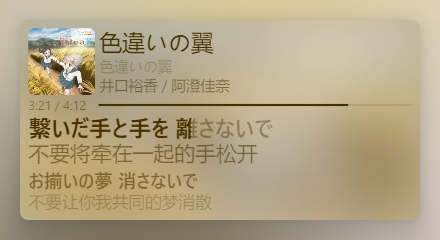
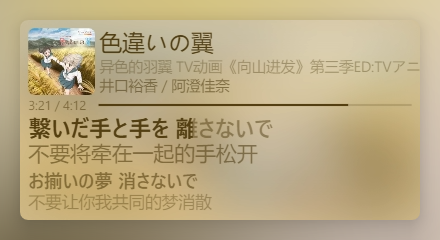
v0.6.2 更新
修复翻译歌词错误出现"暂无歌词"占位的问题，重写封面取色算法，解决 AMLL 背景在0.6.0更新后出现的动态刷新问题，略微降低文字透明度，提高布局计算精度、减少模糊，自动分辨率的判定阈值从相对的1%为绝对的2px、更精确。微调设置，歌曲信息显示的默认值改为自动，新增封面圆角大小设置。

diff --git a/main.js b/main.js
@@ -7,16 +7,17 @@ let rvN, reRatioTimer, winAspect, v, amllbgv/*Apple Music-like Lyrics Background
 , isVLsnAdded=false, isLrcRnpLsnAdded=false
 , t = "0:00 / 0:00", tC = 0, tT = 0, tP = 0, tR = 0 //显示用，Current，Total，PassedRate，Remaining
 , readCfg = JSON.parse(localStorage.getItem("PiPWindowSettings"))
-, color = ({accent: "", text: "", textT13: "", textT31: "", textT42: "", textT56: "", bg: "", bgT00: "", bgT50: ""}), colorS = ({accent: "", text: "", bg: "", bgT: ""}), colorCache = ({text: "", bg: ""})
+, color = ({accent: "", text: "", textT20: "", textT40: "", textT50: "", textT60: "", bg: "", bgT00: "", bgT50: ""}), colorS = ({accent: "", text: "", bg: "", bgT: ""}), colorCache = ({text: "", bg: ""})
 , song = ({name:"", nameAnother:"", artist:""})
 const pdd = "M21 3C21.5523 3 22 3.44772 22 4V11H20V5H4V19H10V21H3C2.44772 21 2 20.5523 2 20V4C2 3.44772 2.44772 3 3 3H21ZM21 13C21.5523 13 22 13.4477 22 14V20C22 20.5523 21.5523 21 21 21H13C12.4477 21 12 20.5523 12 20V14C12 13.4477 12.4477 13 13 13H21Z"
 , pO = `<path d="${pdd}M20 15H14V19H20V15ZM6.70711 6.29289L8.95689 8.54289L11 6.5V12H5.5L7.54289 9.95689L5.29289 7.70711L6.70711 6.29289Z"></path>`
 , pC = `<path d="${pdd}"></path>`
 , cfgDefault = ({
     whenClose: "none", whenBack: "back", whenCloseOrBack_paused: "close", autoHideMainWindow: false, showTaskbarButton: false
-    , useCloudDataForLocalFile: false, showDiscWhenNoCover: false, allowNonsquareCover: false, /*showIconBarBeforeInfo: true,*/ trackInfoShow: "album", timeInfo: "CurrentTotal"
+    , useCloudDataForLocalFile: false, showDiscWhenNoCover: false, allowNonsquareCover: false, /*showIconBarBeforeInfo: true,*/ trackInfoShow: "auto", timeInfo: "CurrentTotal"
     , lyricLine2Show: "auto", dynamicLyrics: true, autoScroll: true, lyricsTaperOff: true, lyricsMask: false, lyricsTransition: true, lyricsHanzi2Kanji: true, lyricsOffset: 0, lyricsFrom: "LibLyric", lyricsCustomSources: "https://example.com/lyric?track=${track}&id=${trackId}&art=${artist}&arts=${artists}&album=${album}&albumId=${albumId}", showLyricsErrorTip: true
-    , colorFrom: "albumCover", colorCustom_accent: "#FFFFFF", colorCustom_text: "#FFFFFF", colorCustom_bg: "#424242", backgroundFrom: "albumCoverBlur", generalFontWeight: 400, originalLyricsFontWeight: 700, translatedLyricsFontWeight: 400, customFonts: "\"Segoe UI\", \"Microsoft Yahei UI\", system-ui", useJapaneseFonts: true, customJapaneseFonts: "\"Yu Gothic UI\", \"Meiryo UI\", \"Microsoft Yahei UI\", system-ui"
+    , colorFrom: "albumCover", colorCustom_accent: "#FFFFFF", colorCustom_text: "#FFFFFF", colorCustom_bg: "#424242", backgroundFrom: "albumCoverBlur", generalFontWeight: 400, originalLyricsFontWeight: 700, translatedLyricsFontWeight: 400
+    , customFonts: "\"Segoe UI\", \"Microsoft Yahei UI\", system-ui", useJapaneseFonts: true, customJapaneseFonts: "\"Yu Gothic UI\", \"Meiryo UI\", \"Microsoft Yahei UI\", system-ui", coverCornerRadius: 6 /*封面圆角默认为6px，比Win11窗口圆角(8px)略小，以获得视觉平衡*/
     , smoothProgessBar: false, resolutionRatio: "auto", aspectRatio: "2:1", albumCoverSize: 160, useFullCover: false
     , customLoadingTxt: "正在载入猫猫…|猫猫正在赶来的路上…|马上就好了喵…"})
 , DcvUrl/*Default*/ = "orpheus://orpheus/style/res/common/discovery/calendar_bg.png"
@@ -69,7 +70,7 @@ function reRatio(rv) {
         if (!document.pictureInPictureElement) {return} /*窗口已经关闭*/
         let changed = false;
         /*自适应分辨率*/
-        if (autoRatio && Math.abs(rvN - autoRatioValue) / autoRatioValue >= 0.01) {autoRatioValue = rvN; changed = true} /*变化很小就不动，避免来回抖动*/
+        if (autoRatio && Math.abs(rvN - autoRatioValue) >= 2) {autoRatioValue = rvN; changed = true} /*变化很小(2px以下)就不动，避免来回抖动*/
         /*跟随窗口实际宽高比：窗口被放大/吸附后形状可能和画布不一致，上下或左右会出现黑边(黑边在视频之外，只能让画布跟着窗口的形状变)*/
         let pw = thePiPWindow, a = (pw && pw.width > 0 && pw.height > 0) ? pw.width / pw.height : 0;
         if (a > 0) {
@@ -176,47 +177,77 @@ function colorPick(from=null) { //取色
     if (readCfg.colorFrom=="custom") { //这里的数据是HEX格式
         color.accent = readCfg.colorCustom_accent;
         textTO = readCfg.colorCustom_text;
-        color.text = textTO, color.textT56 = `${textTO}8F`, color.textT42 = `${textTO}6B`, color.textT31 = `${textTO}4F`, color.textT13 = `${textTO}21`;
+        color.text = textTO, color.textT60 = `${textTO}99`, color.textT50 = `${textTO}80`, color.textT40 = `${textTO}66`, color.textT20 = `${textTO}33`;
         bgTO = readCfg.colorCustom_bg;
         color.bg = bgTO, color.bgT00 = `${bgTO}00`, color.bgT50 = `${bgTO}7F`;
     } else {
         if (from==null) {
             color.accent = colorS.accent;
         } else if (from instanceof HTMLElement) {
-            function brightness(rgb, factor) {
-                let rN = Math.min(255, Math.max(0, rgb[0] * factor))
-                , gN = Math.min(255, Math.max(0, rgb[1] * factor))
-                , bN = Math.min(255, Math.max(0, rgb[2] * factor));
-                return [Math.round(rN), Math.round(gN), Math.round(bN), 255];
-            }
-            function saturation(rgb, factor) {
-                let l = (.299*rgb[0]+.587*rgb[1]+.114*rgb[2])
-                , rN = Math.min(255, Math.max(0, l + (rgb[0] - l) * factor))
-                , gN = Math.min(255, Math.max(0, l + (rgb[1] - l) * factor))
-                , bN = Math.min(255, Math.max(0, l + (rgb[2] - l) * factor));
-                return [Math.round(rN), Math.round(gN), Math.round(bN), 255];
-            }
+            // --- 内联 HSL 与对比度辅助函数 ---
+            function rgbToHsl(r,g,b) {
+                r/=255; g/=255; b/=255; const mx=Math.max(r,g,b), mn=Math.min(r,g,b); let h,s,l=(mx+mn)/2;
+                if (mx===mn) { h=s=0 } else { const d=mx-mn; s=l>.5?d/(2-mx-mn):d/(mx+mn);
+                switch (mx) { case r: h=(g-b)/d+(g<b?6:0); break; case g: h=(b-r)/d+2; break; case b: h=(r-g)/d+4; break; } h/=6 }
+                return [h*360, s*100, l*100];
+            };
+            function hslToRgb(h,s,l) {
+                h/=360; s/=100; l/=100; let r,g,b;
+                if (s===0) { r=g=b=l } else {
+                    function hue2rgb(p,q,t){
+                        if(t<0)t+=1; if(t>1)t-=1;
+                        if(t<1/6)return p+(q-p)*6*t; if(t<1/2)return q; if(t<2/3)return p+(q-p)*(2/3-t)*6; return p;
+                    };
+                    const q = l<.5?l*(1+s):l+s-l*s, p=2*l-q;
+                    r=hue2rgb(p,q,h+1/3); g=hue2rgb(p,q,h); b=hue2rgb(p,q,h-1/3);
+                }
+                return [Math.round(r*255), Math.round(g*255), Math.round(b*255)];
+            };
+            function getLuminance(r,g,b) {
+                const a=[r,g,b].map(v=>{
+                    v/=255; return v<=.03928?v/12.92:Math.pow((v+.055)/1.055,2.4);
+                });
+                return a[0]*.2126 + a[1]*.7152 + a[2]*.0722;
+            };
             if (!cpc||!cpcC) {cpc = cE("canvas"); cpc.width = 3; cpc.height = 3; cpcC = cpc.getContext("2d",{alpha:false})}
             from.height?cpcC.drawImage(from, 0, 0, cpc.width, cpc.height):""
-            let rgb = cpcC.getImageData(1, 1, 2, 2).data
-            , l = (.299*rgb[0]+.587*rgb[1]+.114*rgb[2])
-            , bf = 1, sf = 1.2
-            l<8?bf=50 : l<16?bf=16 : l<32?bf=12 : l<64?bf=8 : l<128?bf=2 : l>144?bf=(-.4) : ""
-            l>144?sf=6 : ""
-            let rgbN = brightness(rgb, l>160?1.1:l>144?1.4:.5)
-            bgTO = `rgba(${rgbN[0]}, ${rgbN[1]}, ${rgbN[2]}`
-            if (readCfg.backgroundFrom == "AMLL"&&loadedPlugins["Apple-Musiclike-lyrics"]) { //AMLL背景下的颜色...优化?
-                rgbN = brightness(saturation(rgb, sf+.3), 4+bf)
-                if ((.299*rgbN[0]+.587*rgbN[1]+.114*rgbN[2])>245) {rgbN = brightness(saturation(rgb, 4), 2+bf)}
-            } else {
-                rgbN = brightness(saturation(rgb, sf), .7+bf)
-                if ((.299*rgbN[0]+.587*rgbN[1]+.114*rgbN[2])>245) {rgbN = brightness(saturation(rgb, 4), .7+bf)}
+            let rgb = cpcC.getImageData(1, 1, 2, 2).data;
+            // 1. 获取并处理 HSL 信息
+            let [h, s, l] = rgbToHsl(rgb[0], rgb[1], rgb[2]);
+            s = (s**(.5))*10; // 非线性提升饱和度，即用根号s乘以10
+            // 2. 处理背景
+            let isDark = l < 56; // 暗色转变阈值：56%
+            let bgS = Math.min(s, 40); // 最高40%饱和度
+            let bgL = isDark ? 20 : 70; // 如果原图暗，背景变暗，否则变亮
+            let bgRgb = hslToRgb(h, bgS, bgL);
+            bgTO = `rgba(${bgRgb[0]}, ${bgRgb[1]}, ${bgRgb[2]}`;
+            // 3. 处理强调色/文字色
+            let textS = Math.min(Math.max(s, 60), 90); // 最低60%保证色彩，最高限制在90%防荧光色
+            let textL = isDark ? 80 : 20; // 基础亮度设定在 80%（暗色）和 20%（亮色）
+            // AMLL 特殊处理（如果启用了 AMLL，强制变亮）
+            if (readCfg.backgroundFrom == "AMLL" && loadedPlugins["Apple-Musiclike-lyrics"]) {
+                textL = 80;
             }
-            if (rgbN[0]>235&&rgbN[1]<235&&rgbN[2]<235) {rgbN = [235, rgbN[1]<50?50:rgbN[1], rgbN[2]<30?30:rgbN[2]]} //太红看不清
-            color.accent = `rgb(${rgbN[0]}, ${rgbN[1]}, ${rgbN[2]})`
-            textTO = `rgba(${rgbN[0]}, ${rgbN[1]}, ${rgbN[2]}`
+            let textRgb = hslToRgb(h, textS, textL);
+            // 4. 对比度判定（WCAG AA 标准，对比度不低于 4.5）
+            let bgLum = getLuminance(bgRgb[0], bgRgb[1], bgRgb[2]);
+            let textLum = getLuminance(textRgb[0], textRgb[1], textRgb[2]);
+            let contrast = (Math.max(bgLum, textLum) + .05) / (Math.min(bgLum, textLum) + .05);
+            // 如果对比度不足，提高/降低文字亮度
+            if (contrast < 4.5) {
+                textL = isDark ? 90 : 10;
+                textRgb = hslToRgb(h, textS, textL);
+                textLum = getLuminance(textRgb[0], textRgb[1], textRgb[2]);
+                contrast = (Math.max(bgLum, textLum) + .05) / (Math.min(bgLum, textLum) + .05);
+                // 终极兜底：直接使用纯白色/纯黑色
+                if (contrast < 4.5) {
+                    textRgb = isDark ? [255, 255, 255] : [0, 0, 0];
+                }
+            }
+            color.accent = `rgb(${textRgb[0]}, ${textRgb[1]}, ${textRgb[2]})`;
+            textTO = `rgba(${textRgb[0]}, ${textRgb[1]}, ${textRgb[2]}`;
         }
-        color.text = `${textTO})`, color.textT56 = `${textTO}, .56)`, color.textT42 = `${textTO}, .42)`, color.textT31 = `${textTO}, .31)`, color.textT13 = `${textTO}, .13)`;
+        color.text = `${textTO})`, color.textT60 = `${textTO}, .6)`, color.textT50 = `${textTO}, .5)`, color.textT40 = `${textTO}, .4)`, color.textT20 = `${textTO}, .2)`;
         color.bg = `${bgTO})`, color.bgT00 = `${bgTO}, 0)`, color.bgT50 = `${bgTO}, .5)`;
     }
     
@@ -353,7 +384,7 @@ async function loadPiP(isToPiP=true, from="unknow") {
                 "",
             ],
             T: [
-                "暂无歌词",
+                "",
                 "",
                 "",
                 "",
@@ -575,13 +606,17 @@ async function loadPiP(isToPiP=true, from="unknow") {
             nrInfo = true;
         }
 
-        let u=r/480 //由于设计时画布大小为960x480，故这里除以480
-        let o1=u, o2=u*2, o3=u*3, o5=u*5, o10=u*10, o12=u*12, o15=u*15
-        , o20=u*20, o21p5=u*21.5, o25=u*25, o30=u*30, o30p5=u*30.5, o35=u*35
-        ,o45=u*45, o55=u*55, o60=u*60, o105=u*105, o150=u*150
-        , o480=u*480
+        const H = 480;
+        // 倍率 n 直接乘 r 再除以 H；n 为整数时 n*r 在安全整数范围内是精确的
+        const o = n => n * r / H;
+        let o3 = o(3), o5 = o(5), o10 = o(10), o12 = o(12), o15 = o(15),
+            o20 = o(20), o21p5 = o(21.5), o25 = o(25), o30 = o(30), o30p5 = o(30.5),
+            o35 = o(35), o45 = o(45), o55 = o(55), o60 = o(60), o105 = o(105),
+            o150 = o(150), o480 = r;
         let edgeM = o20 /*内容与窗口边缘的统一留白*/
-        , cvR = (thePiPWindow&&thePiPWindow.height) ? o480*6/thePiPWindow.height : o12 /*封面圆角为6px，比窗口圆角(8px)略小，以获得视觉平衡*/
+        , cvR = (thePiPWindow&&thePiPWindow.height)
+            ? o480*readCfg.coverCornerRadius/thePiPWindow.height
+            : o12
         , txtMgL = edgeM + cvSizeX + o10
         cC.textAlign = "left";
 
@@ -595,18 +630,18 @@ async function loadPiP(isToPiP=true, from="unknow") {
             if (!isT) {
                 switch (line) {
                     case 0: if (!isU) cC.fillStyle = color.text;
-                            else cC.fillStyle = color.textT42;
+                            else cC.fillStyle = color.textT50;
                             cC.font = `${oLFW} ${lrcFS}px ${fM}`; return;
-                    case 1: cC.fillStyle = color.textT56, cC.font = `${oLFW} ${lrcFS-o10}px ${fM}`; return;
-                    case 2: cC.fillStyle = color.textT56, cC.font = `${oLFW} ${lrcFS-(lrcSSS?o15:o10)}px ${fM}`; return;
-                    case 3: default: cC.fillStyle = color.textT56, cC.font = `${oLFW} ${lrcFS-(lrcSSS?o20:o10)}px ${fM}`; return;
+                    case 1: cC.fillStyle = color.textT60, cC.font = `${oLFW} ${lrcFS-o10}px ${fM}`; return;
+                    case 2: cC.fillStyle = color.textT60, cC.font = `${oLFW} ${lrcFS-(lrcSSS?o15:o10)}px ${fM}`; return;
+                    case 3: default: cC.fillStyle = color.textT60, cC.font = `${oLFW} ${lrcFS-(lrcSSS?o20:o10)}px ${fM}`; return;
                 }
             } else {
                 switch (line) {
-                    case 0: cC.fillStyle = color.textT56, cC.font = `${tLFW} ${lrcFS-o5}px ${fT}`; return;
-                    case 1: cC.fillStyle = color.textT31, cC.font = `${tLFW} ${lrcFS-o15}px ${fT}`; return;
-                    case 2: cC.fillStyle = color.textT31, cC.font = `${tLFW} ${lrcFS-(lrcSSS?o20:o15)}px ${fT}`; return;
-                    case 3: default: cC.fillStyle = color.textT31, cC.font = `${tLFW} ${lrcFS-(lrcSSS?o25:o15)}px ${fT}`; return;
+                    case 0: cC.fillStyle = color.textT60, cC.font = `${tLFW} ${lrcFS-o5}px ${fT}`; return;
+                    case 1: cC.fillStyle = color.textT40, cC.font = `${tLFW} ${lrcFS-o15}px ${fT}`; return;
+                    case 2: cC.fillStyle = color.textT40, cC.font = `${tLFW} ${lrcFS-(lrcSSS?o20:o15)}px ${fT}`; return;
+                    case 3: default: cC.fillStyle = color.textT40, cC.font = `${tLFW} ${lrcFS-(lrcSSS?o25:o15)}px ${fT}`; return;
                 }
             }
         }
@@ -767,18 +802,19 @@ async function loadPiP(isToPiP=true, from="unknow") {
         }
     
         cC.font = `${gFW} ${o30}px ${f}`;
-        cC.fillStyle = color.textT56;
+        cC.fillStyle = color.textT60;
         let tW = cC.measureText(t).width
         cC.fillText(t, edgeM, cvSizeY+edgeM+o35); /*时间*/
     
         let pbMgT = cvSizeY+edgeM+o21p5, pbMgL = edgeM+tW+o30p5
-        cC.fillStyle = color.textT13;
+        cC.fillStyle = color.textT20;
         cC.fillRect(pbMgL, pbMgT, c.width-edgeM-pbMgL, o5); /*进度条背景*/
         cC.fillStyle = color.accent;
         cC.fillRect(pbMgL, pbMgT, (c.width-edgeM-pbMgL)*tP, o5); /*进度条*/
     
         /*背景*/
         if (readCfg.backgroundFrom == "AMLL"&&loadedPlugins["Apple-Musiclike-lyrics"]) {
+            nrNextTick = true
             let amllbgc = q(".amll-background-render-wrapper canvas")
             if (amllbgc) {
                 if (!amllbgv) {
@@ -813,7 +849,7 @@ async function loadPiP(isToPiP=true, from="unknow") {
             cC.globalCompositeOperation = "destination-out";
             cC.beginPath();
             cC.fillStyle = "#000";
-            cC.rect(cx-o1, cy-o1, w+o2, h+o2); /*外框(略大一圈，保证边缘擦干净)*/
+            cC.rect(0, 0, cx+w+o3, cy+h+o5); /*外框(大一圈，保证边缘擦干净，特别是动态背景下)*/
             /*封面圆角(四角)：外框减去圆角矩形，只擦掉四个角*/
             cC.moveTo(cx+rad, cy);
             cC.arcTo(cx+w, cy, cx+w, cy+h, rad);
@@ -829,9 +865,9 @@ async function loadPiP(isToPiP=true, from="unknow") {
             cC.drawImage(bgc, edgeM+cvSizeX, 0, c.width, edgeM+cvSizeY+o5, edgeM+cvSizeX, 0, c.width, edgeM+cvSizeY+o5); /*清除*/
             cC.fillStyle = color.text; cC.font = `${gFW} ${o55}px ${f}`;
             cC.fillText(song.name, txtMgL, o55+edgeM); /*主名*/
-            cC.fillStyle = color.textT31; cC.font = `${gFW} ${o35}px ${f}`;
+            cC.fillStyle = color.textT40; cC.font = `${gFW} ${o35}px ${f}`;
             cC.fillText(song.nameAnother, txtMgL, o105+edgeM); /*副名*/
-            cC.fillStyle = color.textT56;
+            cC.fillStyle = color.textT60;
             cC.fillText(song.artist, txtMgL, song.nameAnother==""?o105+edgeM:o150+edgeM); /*歌手*/
         }
         if (nrInfo) {
@@ -854,7 +890,6 @@ async function loadPiP(isToPiP=true, from="unknow") {
                     bgcC.fillStyle = color.bgT50;
                     bgcC.fillRect(0, 0, bgc.width, bgc.height);
                 }
-                cC.drawImage(bgc, 0, 0, cvSizeX+edgeM, cvSizeY+edgeM+o5, 0, 0, cvSizeX+edgeM, cvSizeY+edgeM+o5);
                 drawInfo();
                 if (!isCoverEmpty) {
                     cC.drawImage(cover, edgeM, edgeM, cvSizeX, cvSizeY);drawRC();
@@ -1192,10 +1227,6 @@ function getSettingsPage() {
         filter: invert(80%);
         color: var(--current-color);
         text-shadow: 0 0 1px var(--current-color);
-    }
-
-    #PiPWSettings .button + p {
-        line-height: 41px;
     }
 
     #PiPWSettings .textBox {
@@ -1552,14 +1583,14 @@ function getSettingsPage() {
     </div>
     <div class="subPart">
         <div class="subTitle"><p>歌词</p></div>
-        <p>歌词第二行显示</p>
+        <p>副歌词显示</p>
         <br />
         <div class="item">
             <label class="radio">
                 <input type="radio" name="lyricLine2Show" value="none" />
                 <span class="slider button"></span>
             </label>
-            <p>不要显示</p>
+            <p>无</p>
         </div>
         <div class="item">
             <label class="radio">
@@ -1573,7 +1604,7 @@ function getSettingsPage() {
                 <input type="radio" name="lyricLine2Show" value="translation" />
                 <span class="slider button"></span>
             </label>
-            <p>歌词翻译</p>
+            <p>翻译歌词</p>
         </div>
         <div class="item">
             <label class="radio">
@@ -1670,7 +1701,7 @@ function getSettingsPage() {
     </div>
     <div class="subPart">
         <div class="subTitle"><p>外观</p></div>
-        <p>颜色来源</p>
+        <p>配色来源</p>
         <br />
         <div class="item">
             <label class="radio">
@@ -1694,7 +1725,7 @@ function getSettingsPage() {
             <p>自定义</p>
         </div>
         <br />
-        <p>自定义颜色</p>
+        <p>自定义配色</p>
         <div style="height: 42px">
             <div class="item">
                 <label style="--current-color: ${readCfg.colorCustom_text}">
@@ -1721,14 +1752,14 @@ function getSettingsPage() {
                 </label>
             </div>
         </div>
-        <p>背景来源</p>
+        <p>背景</p>
         <br />
         <div class="item">
             <label class="radio">
                 <input type="radio" name="backgroundFrom" value="themeBackgroundColor" />
                 <span class="slider button"></span>
             </label>
-            <p>主题背景色</p>
+            <p>纯色</p>
         </div>
         <div class="item">
             <label class="radio">
@@ -1747,19 +1778,19 @@ function getSettingsPage() {
         </div>
         <br />
         <div class="item">
-            <p>全局字重 <a title='范围为1~1000，400相当于常规或中等，700相当于加粗，具体显示效果取决于字体'>?</a></p>
+            <p>全局字重 <a title='范围为1~1000，400相当于正常大小，700相当于加粗，具体显示效果取决于字体'>?</a></p>
             <br />
             <input class="button textBox" id="generalFontWeightSetBox" type="number" step="100" min="0" max="1000" placeholder='${cfgDefault.generalFontWeight}'
             value="${readCfg.generalFontWeight}" />
         </div>
         <div class="item">
-            <p>歌词(原文)字重</p>
+            <p>原歌词字重</p>
             <br />
             <input class="button textBox" id="originalLyricsFontWeightSetBox" type="number" step="100" min="0" max="1000" placeholder='${cfgDefault.originalLyricsFontWeight}'
             value="${readCfg.originalLyricsFontWeight}" />
         </div>
         <div class="item">
-            <p>歌词第二行字重</p>
+            <p>副歌词字重</p>
             <br />
             <input class="button textBox" id="translatedLyricsFontWeightSetBox" type="number" step="100" min="0" max="1000" placeholder='${cfgDefault.translatedLyricsFontWeight}'
             value="${readCfg.translatedLyricsFontWeight}" />
@@ -1783,6 +1814,11 @@ function getSettingsPage() {
             value="${readCfg.customJapaneseFonts.replaceAll("\"", "&quot;" )}" />
         <br />
         <input class="button" style="position: absolute; transform: translate(325px, -40px);" id="applyButton-customJapaneseFonts" type="button" value="应用" />
+        <p>封面圆角大小</p>
+        <br />
+        <input class="button textBox" id="coverCornerRadiusSetBox" type="number" step="1" placeholder='${cfgDefault.coverCornerRadius}'
+            value="${readCfg.coverCornerRadius}" />
+        <p>px</p>
     </div>
     <div class="subPart">
         <div class="subTitle"><p>渲染 (高级)</p></div>
@@ -1794,6 +1830,13 @@ function getSettingsPage() {
         <br />
         <p>窗口宽高比</p>
         <br />
+        <div class="item">
+            <label class="radio">
+                <input type="radio" name="aspectRatio" value="4:3" />
+                <span class="slider button"></span>
+            </label>
+            <p>4:3</p>
+        </div>
         <div class="item">
             <label class="radio">
                 <input type="radio" name="aspectRatio" value="16:9" />
@@ -1821,13 +1864,6 @@ function getSettingsPage() {
                 <span class="slider button"></span>
             </label>
             <p>24:9</p>
-        </div>
-        <div class="item">
-            <label class="radio">
-                <input type="radio" name="aspectRatio" value="3:1" />
-                <span class="slider button"></span>
-            </label>
-            <p>3:1</p>
         </div>
         <br />
         <p>渲染分辨率 (越小性能越好)</p>
